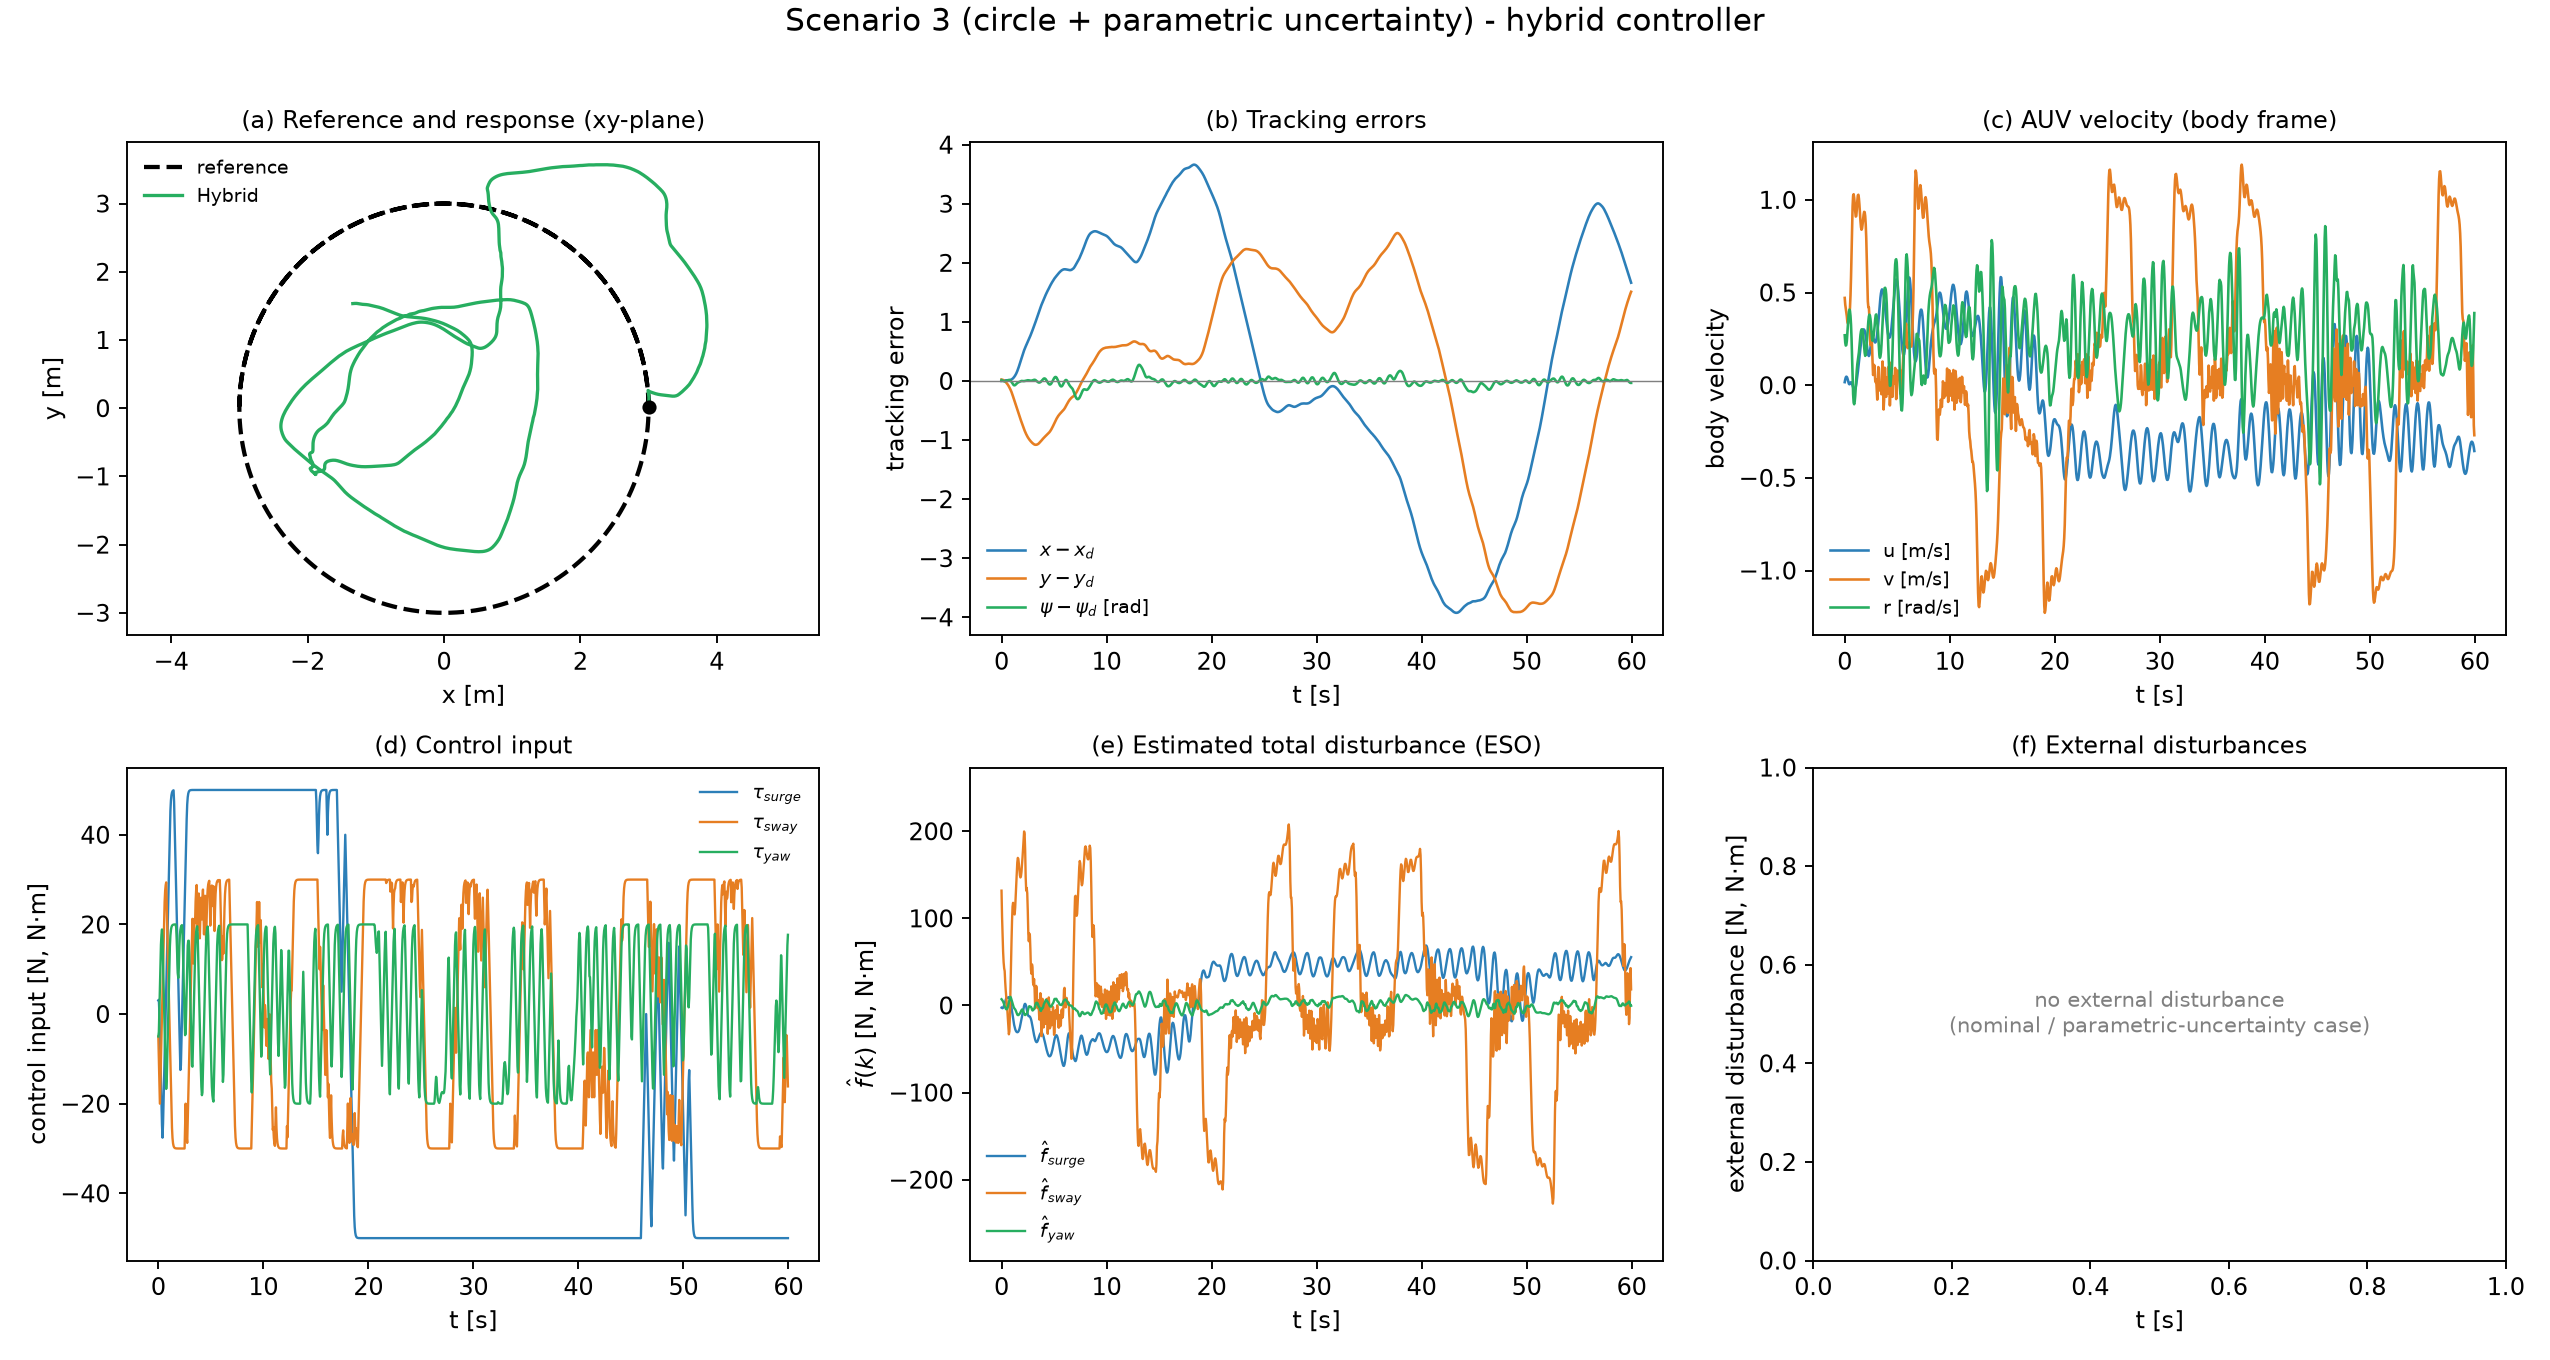
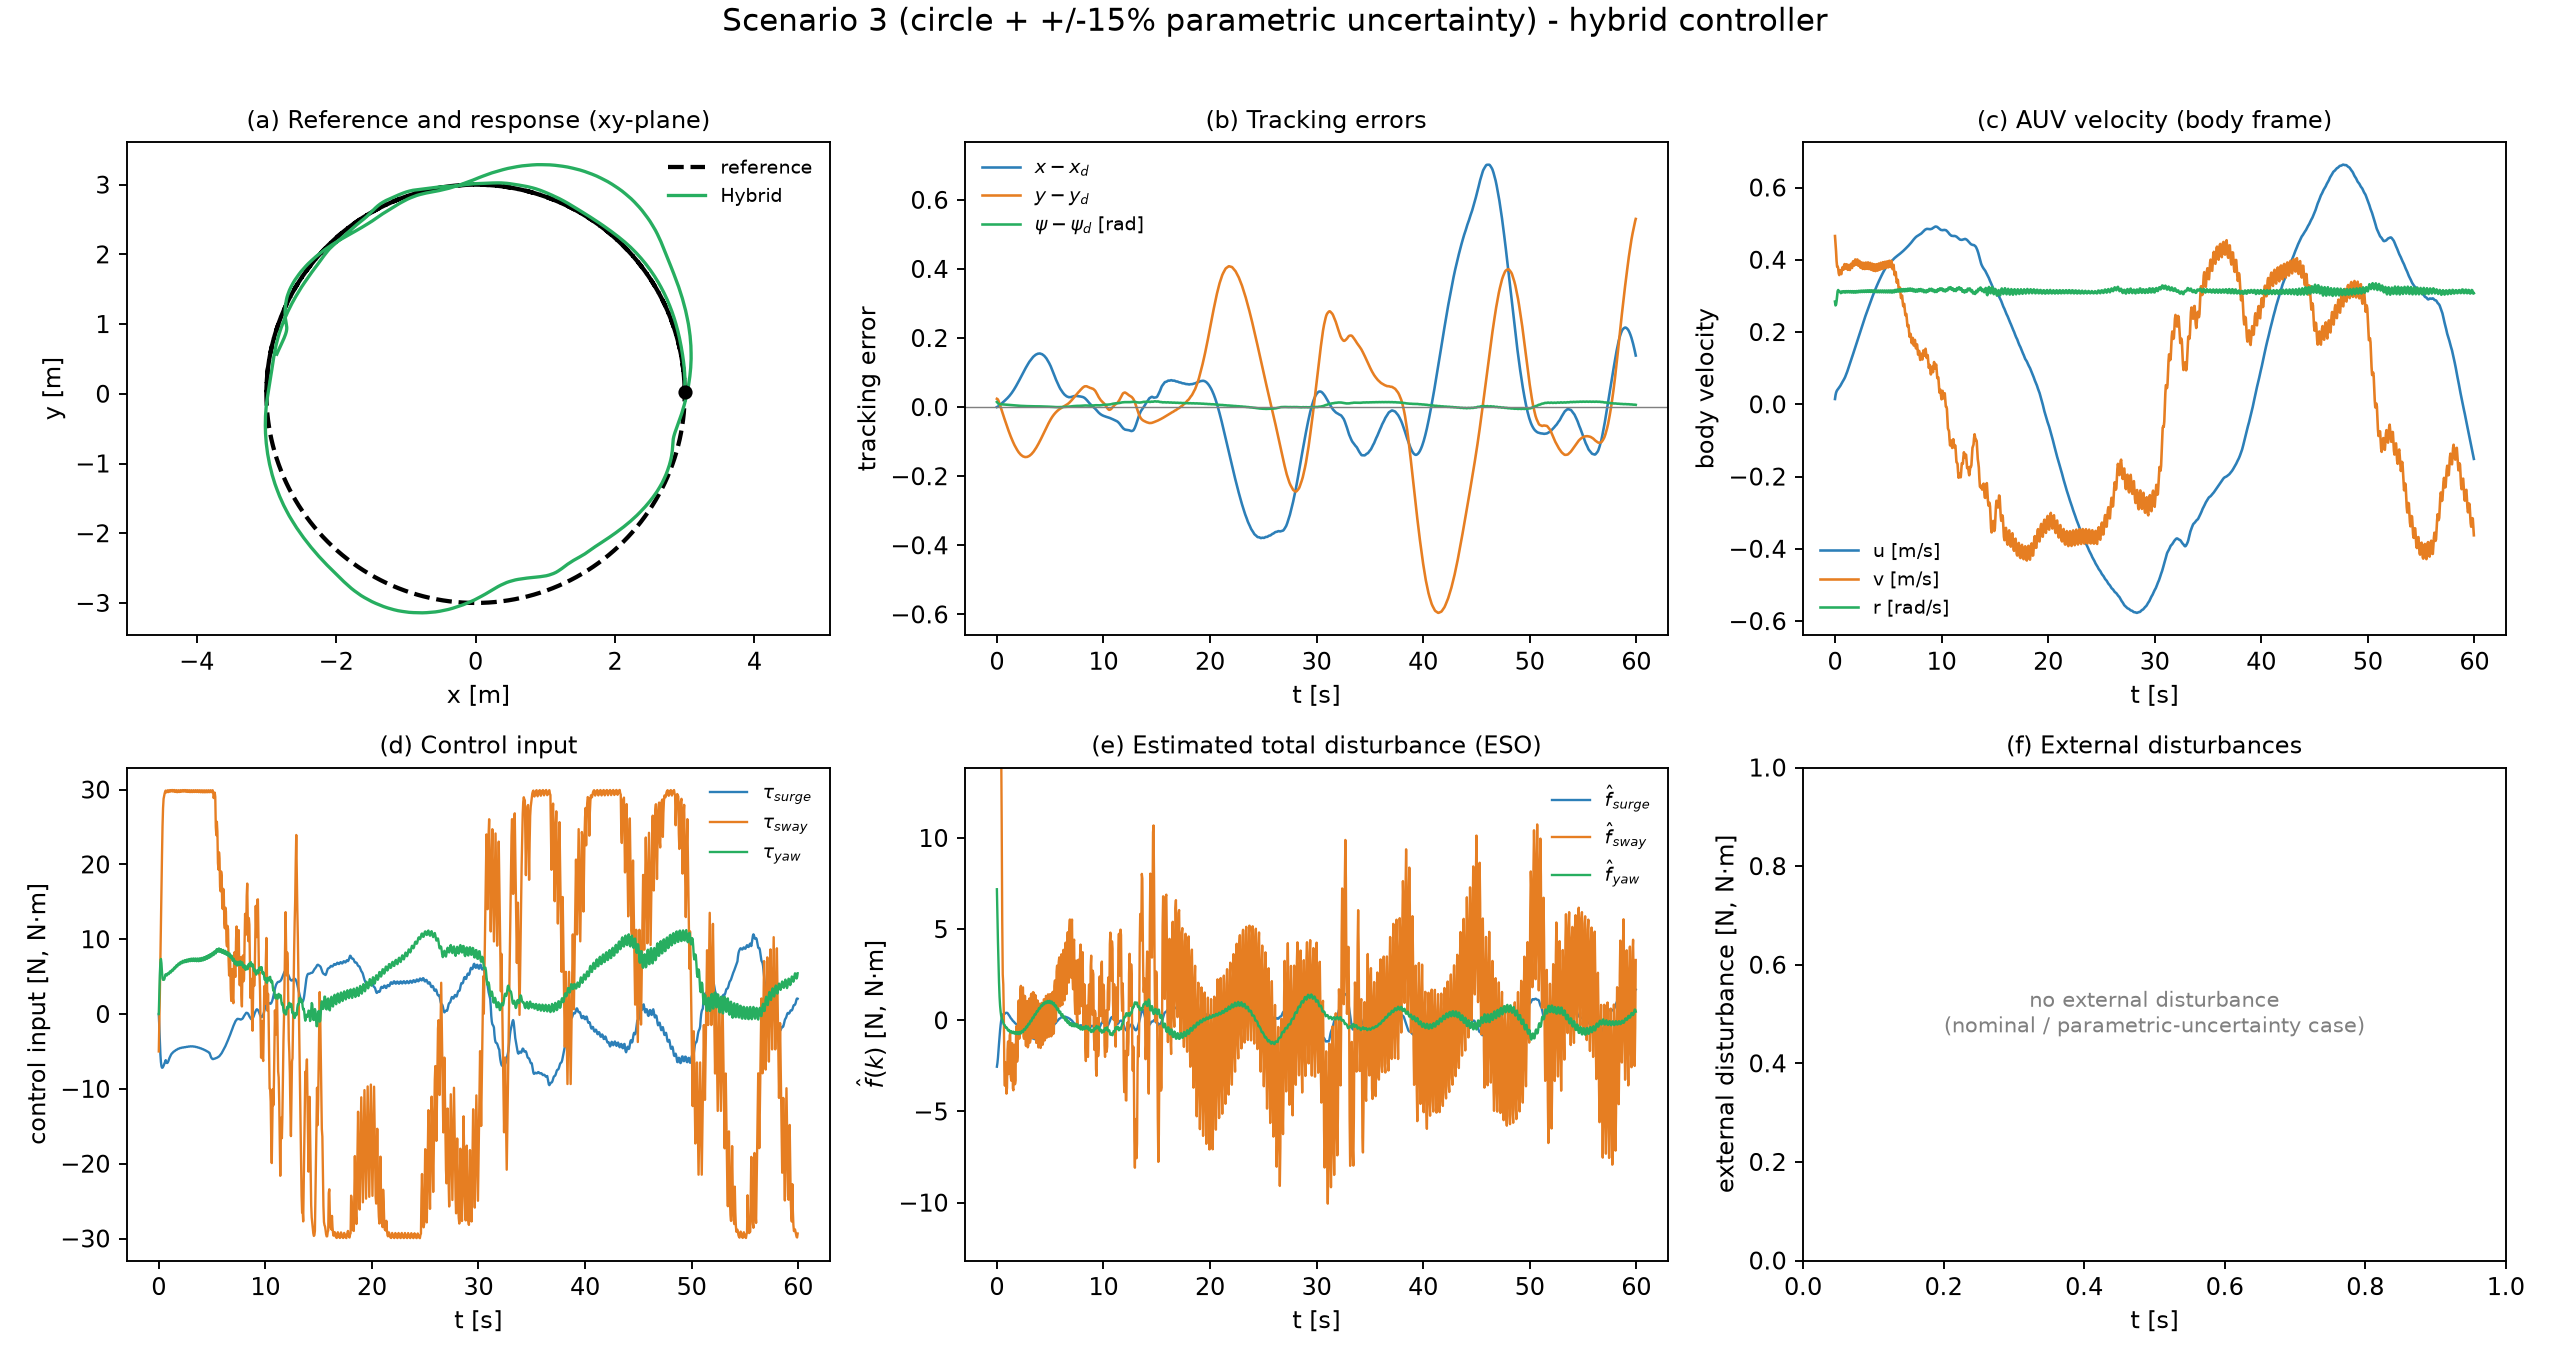
Regenerate scenario results with S3 at feasible +/-15% uncertainty
Scenario 3 now tracks the circle accurately: Hybrid pos RMSE 0.31 m (beats MPC
0.36), yaw 0.009 (vs 0.035), lower energy, and dominates PID/Fuzzy. The xy
response follows the reference circle instead of spiralling. All three 6-panel
diagnostics and comparison tables/plots regenerated with the single tuned
proportional+trim hybrid across S1/S2/S3.

Claude-Session: https://claude.ai/code/session_01EqTA97WWzLYUmNUAg6Z7rU

diff --git a/cfdl_mfac_ncp_td3/results/scenarios/RESULTS.md b/cfdl_mfac_ncp_td3/results/scenarios/RESULTS.md
@@ -22,11 +22,11 @@ Position RMSE [m] per velocity-measurement SNR (position SNR = 80 dB):
 | PID | 5.5444 | 1.4242 | 7.3762 | 1.7481 | 174188.2 |
 | Fuzzy | 4.9751 | 1.1937 | 6.7171 | 1.2238 | 136133.2 |
 
-## Scenario 3 - circle + 100% time-varying parametric uncertainty
+## Scenario 3 - circle + +/-15% time-varying parametric uncertainty
 
 | Controller | pos RMSE | yaw RMSE | energy |
 |---|---|---|---|
-| Hybrid | 2.8898 | 0.0649 | 251685.2 |
-| MPC | 3.4377 | 0.0513 | 269173.9 |
-| PID | 5.6755 | 0.2785 | 231992.0 |
-| Fuzzy | 4.7455 | 0.2607 | 228013.8 |
+| Hybrid | 0.3116 | 0.0091 | 86768.6 |
+| MPC | 0.3645 | 0.0353 | 89229.2 |
+| PID | 8.9844 | 1.3950 | 247085.3 |
+| Fuzzy | 4.6165 | 1.0319 | 155177.8 |
